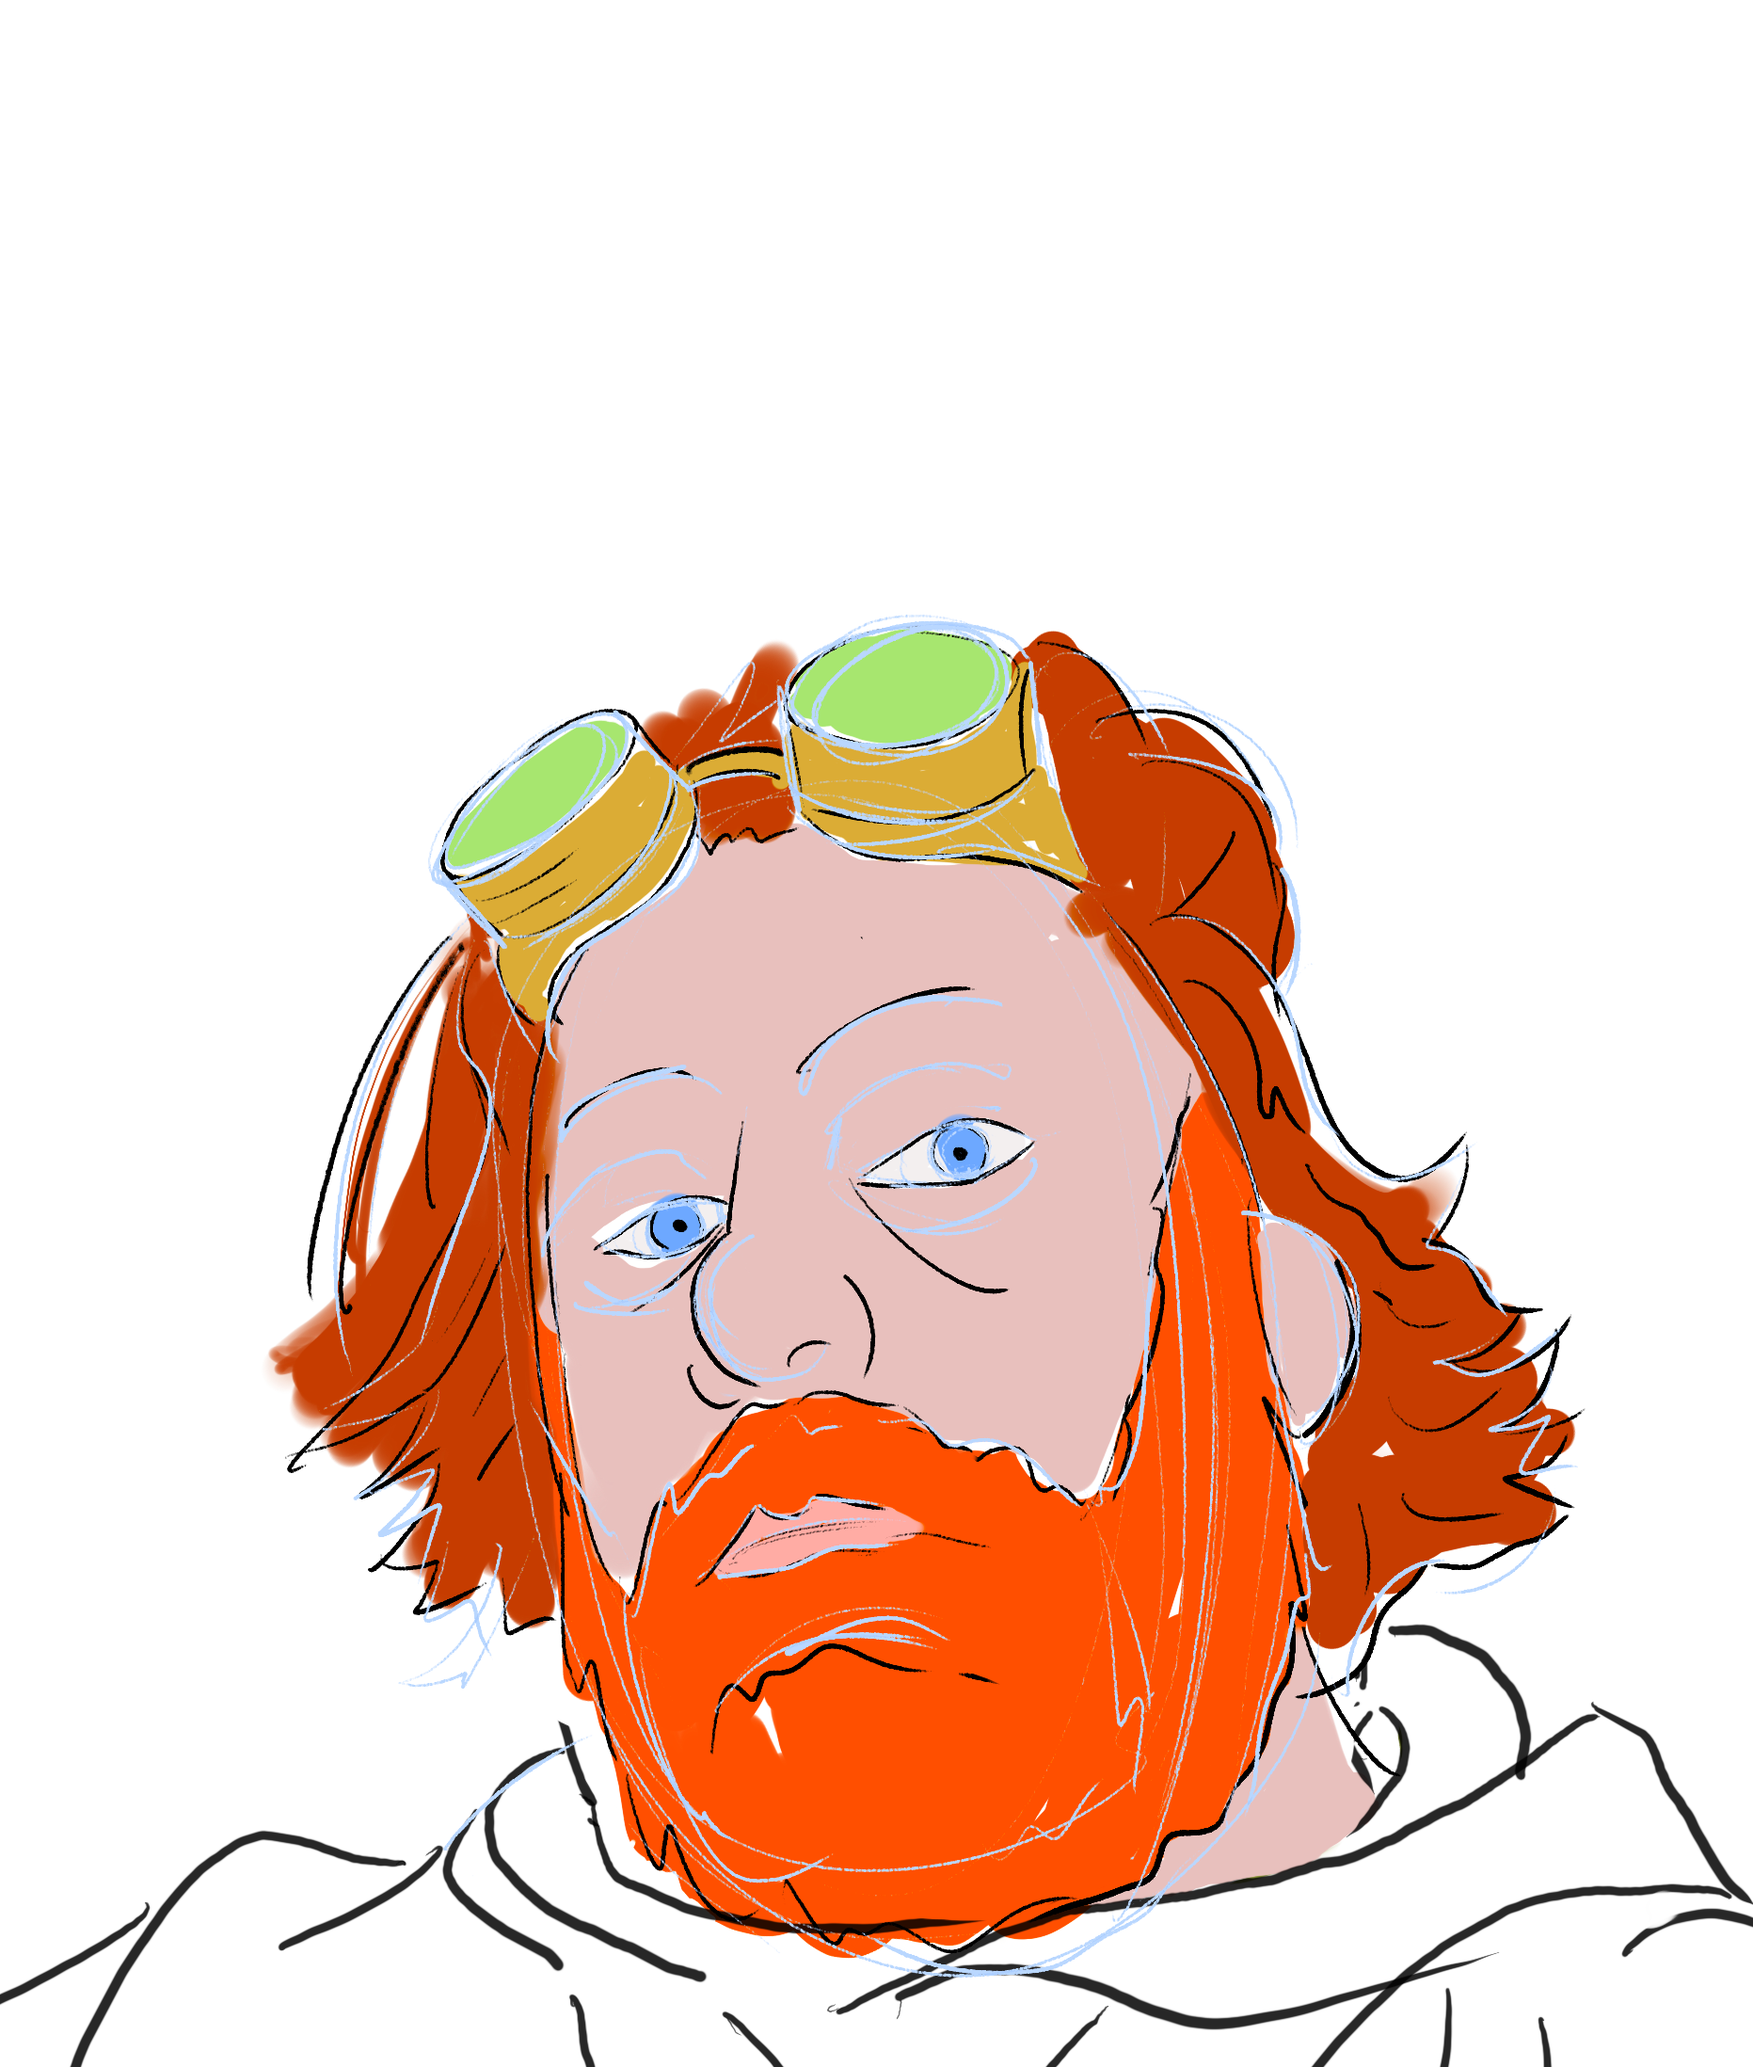
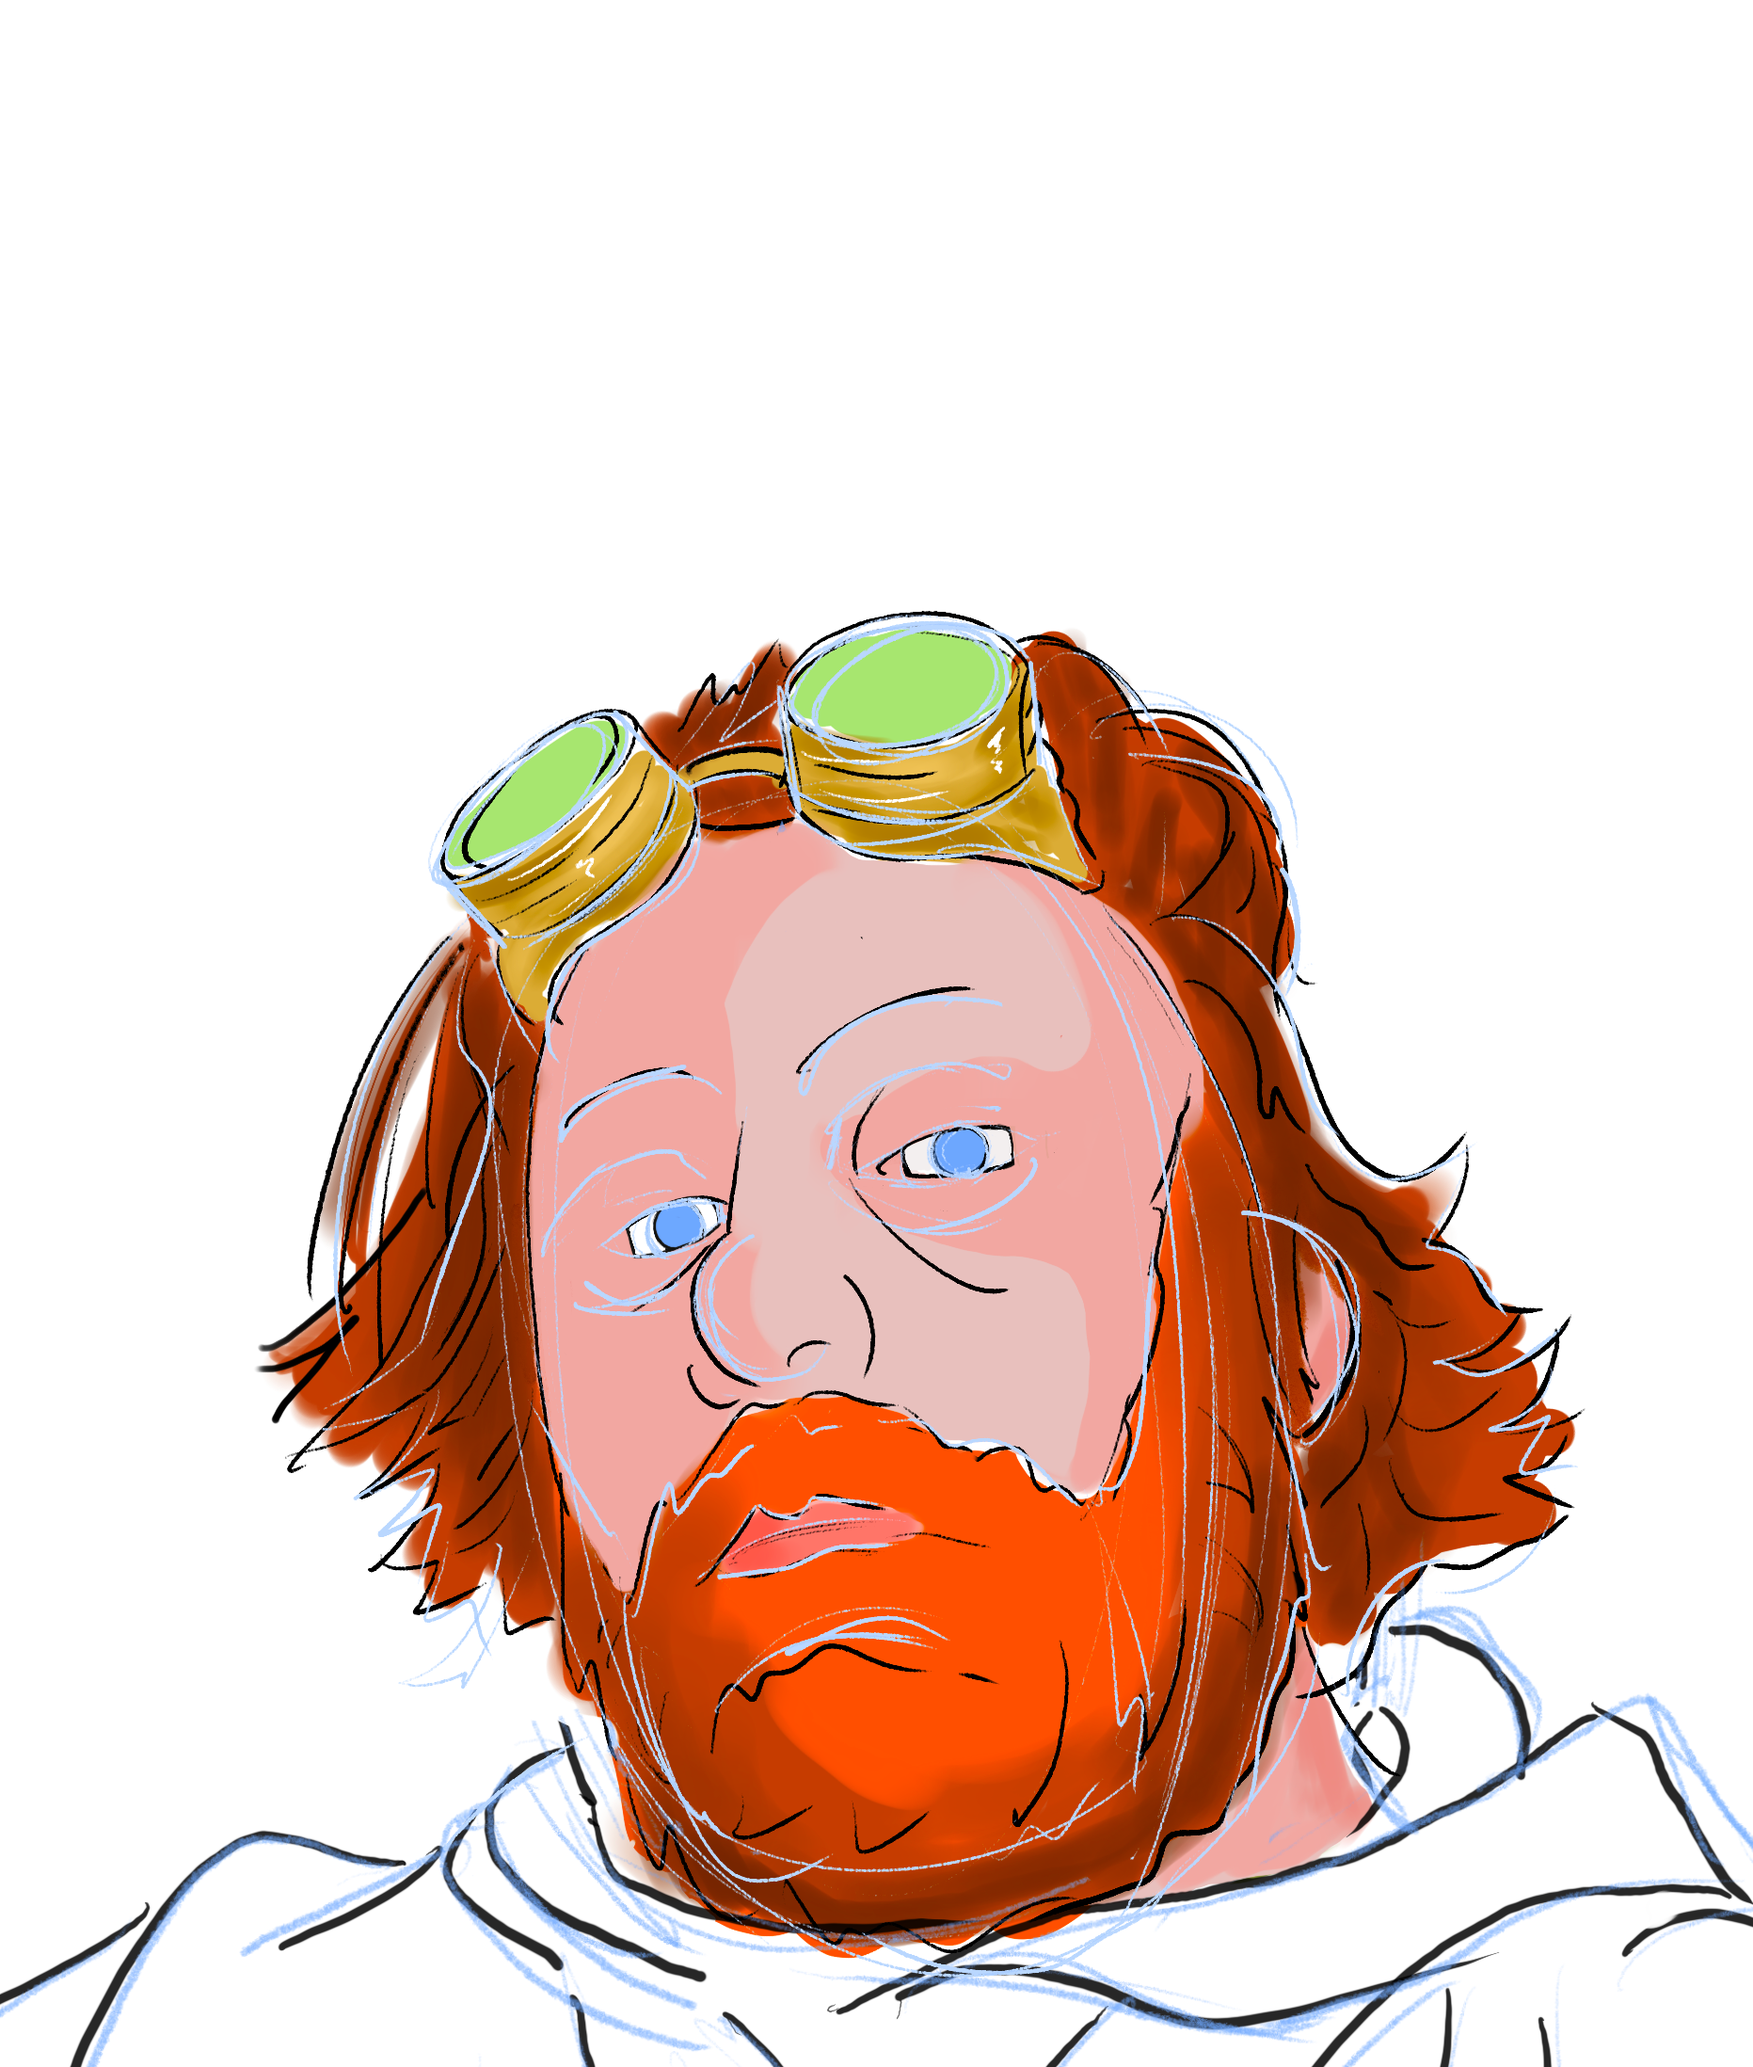
Update about script and Dan drawing

diff --git a/aboutScript.js b/aboutScript.js
@@ -18,3 +18,20 @@ danBtn.addEventListener("click", () => {
   dan.classList.toggle("hidden");
   space.classList.toggle("hidden");
 });
+
+
+const button = document.querySelector("#mainNavbar");
+
+
+// button.addEventListener("click", () => {
+//   const newColor = makeRandColor();
+//   document.body.style.backgroundColor = newColor;
+//   //h1Text.innerText = newColor;
+// });
+
+// const makeRandColor = () => {
+//   const r = Math.floor(Math.random() * 255);
+//   const g = Math.floor(Math.random() * 255);
+//   const b = Math.floor(Math.random() * 255);
+//   return `rgb(${r},${g},${b})`;
+// };
